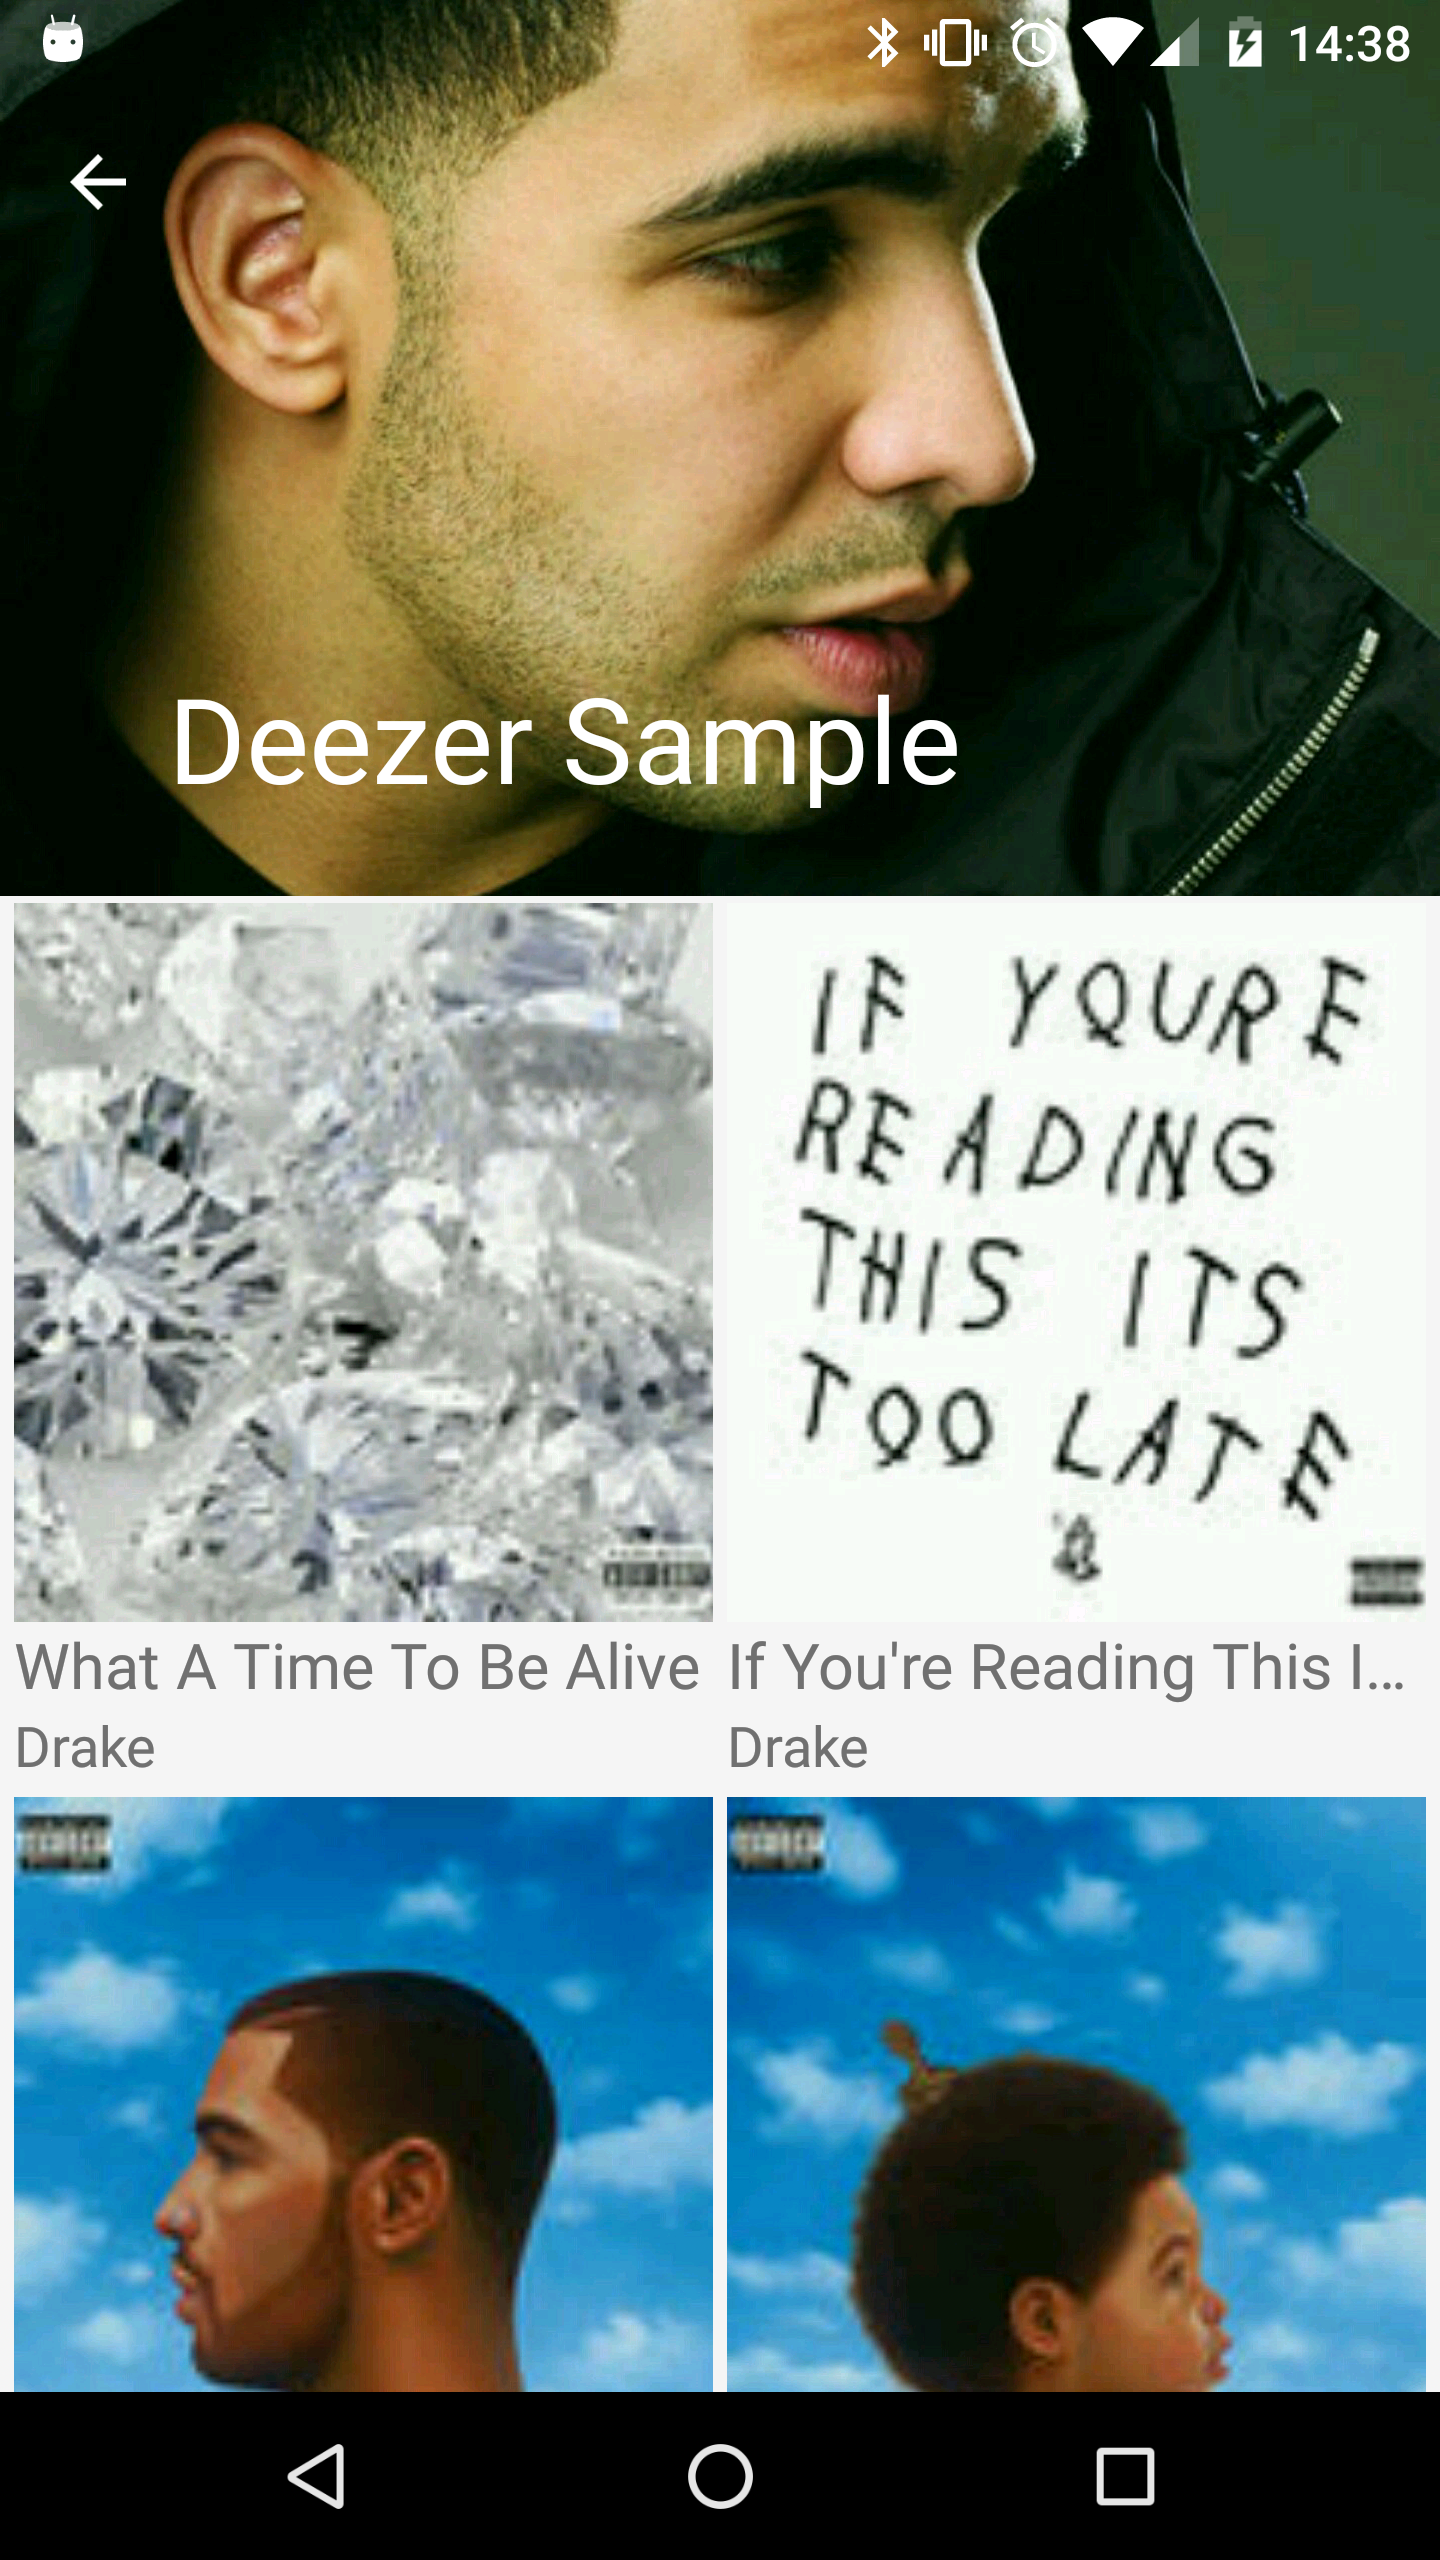
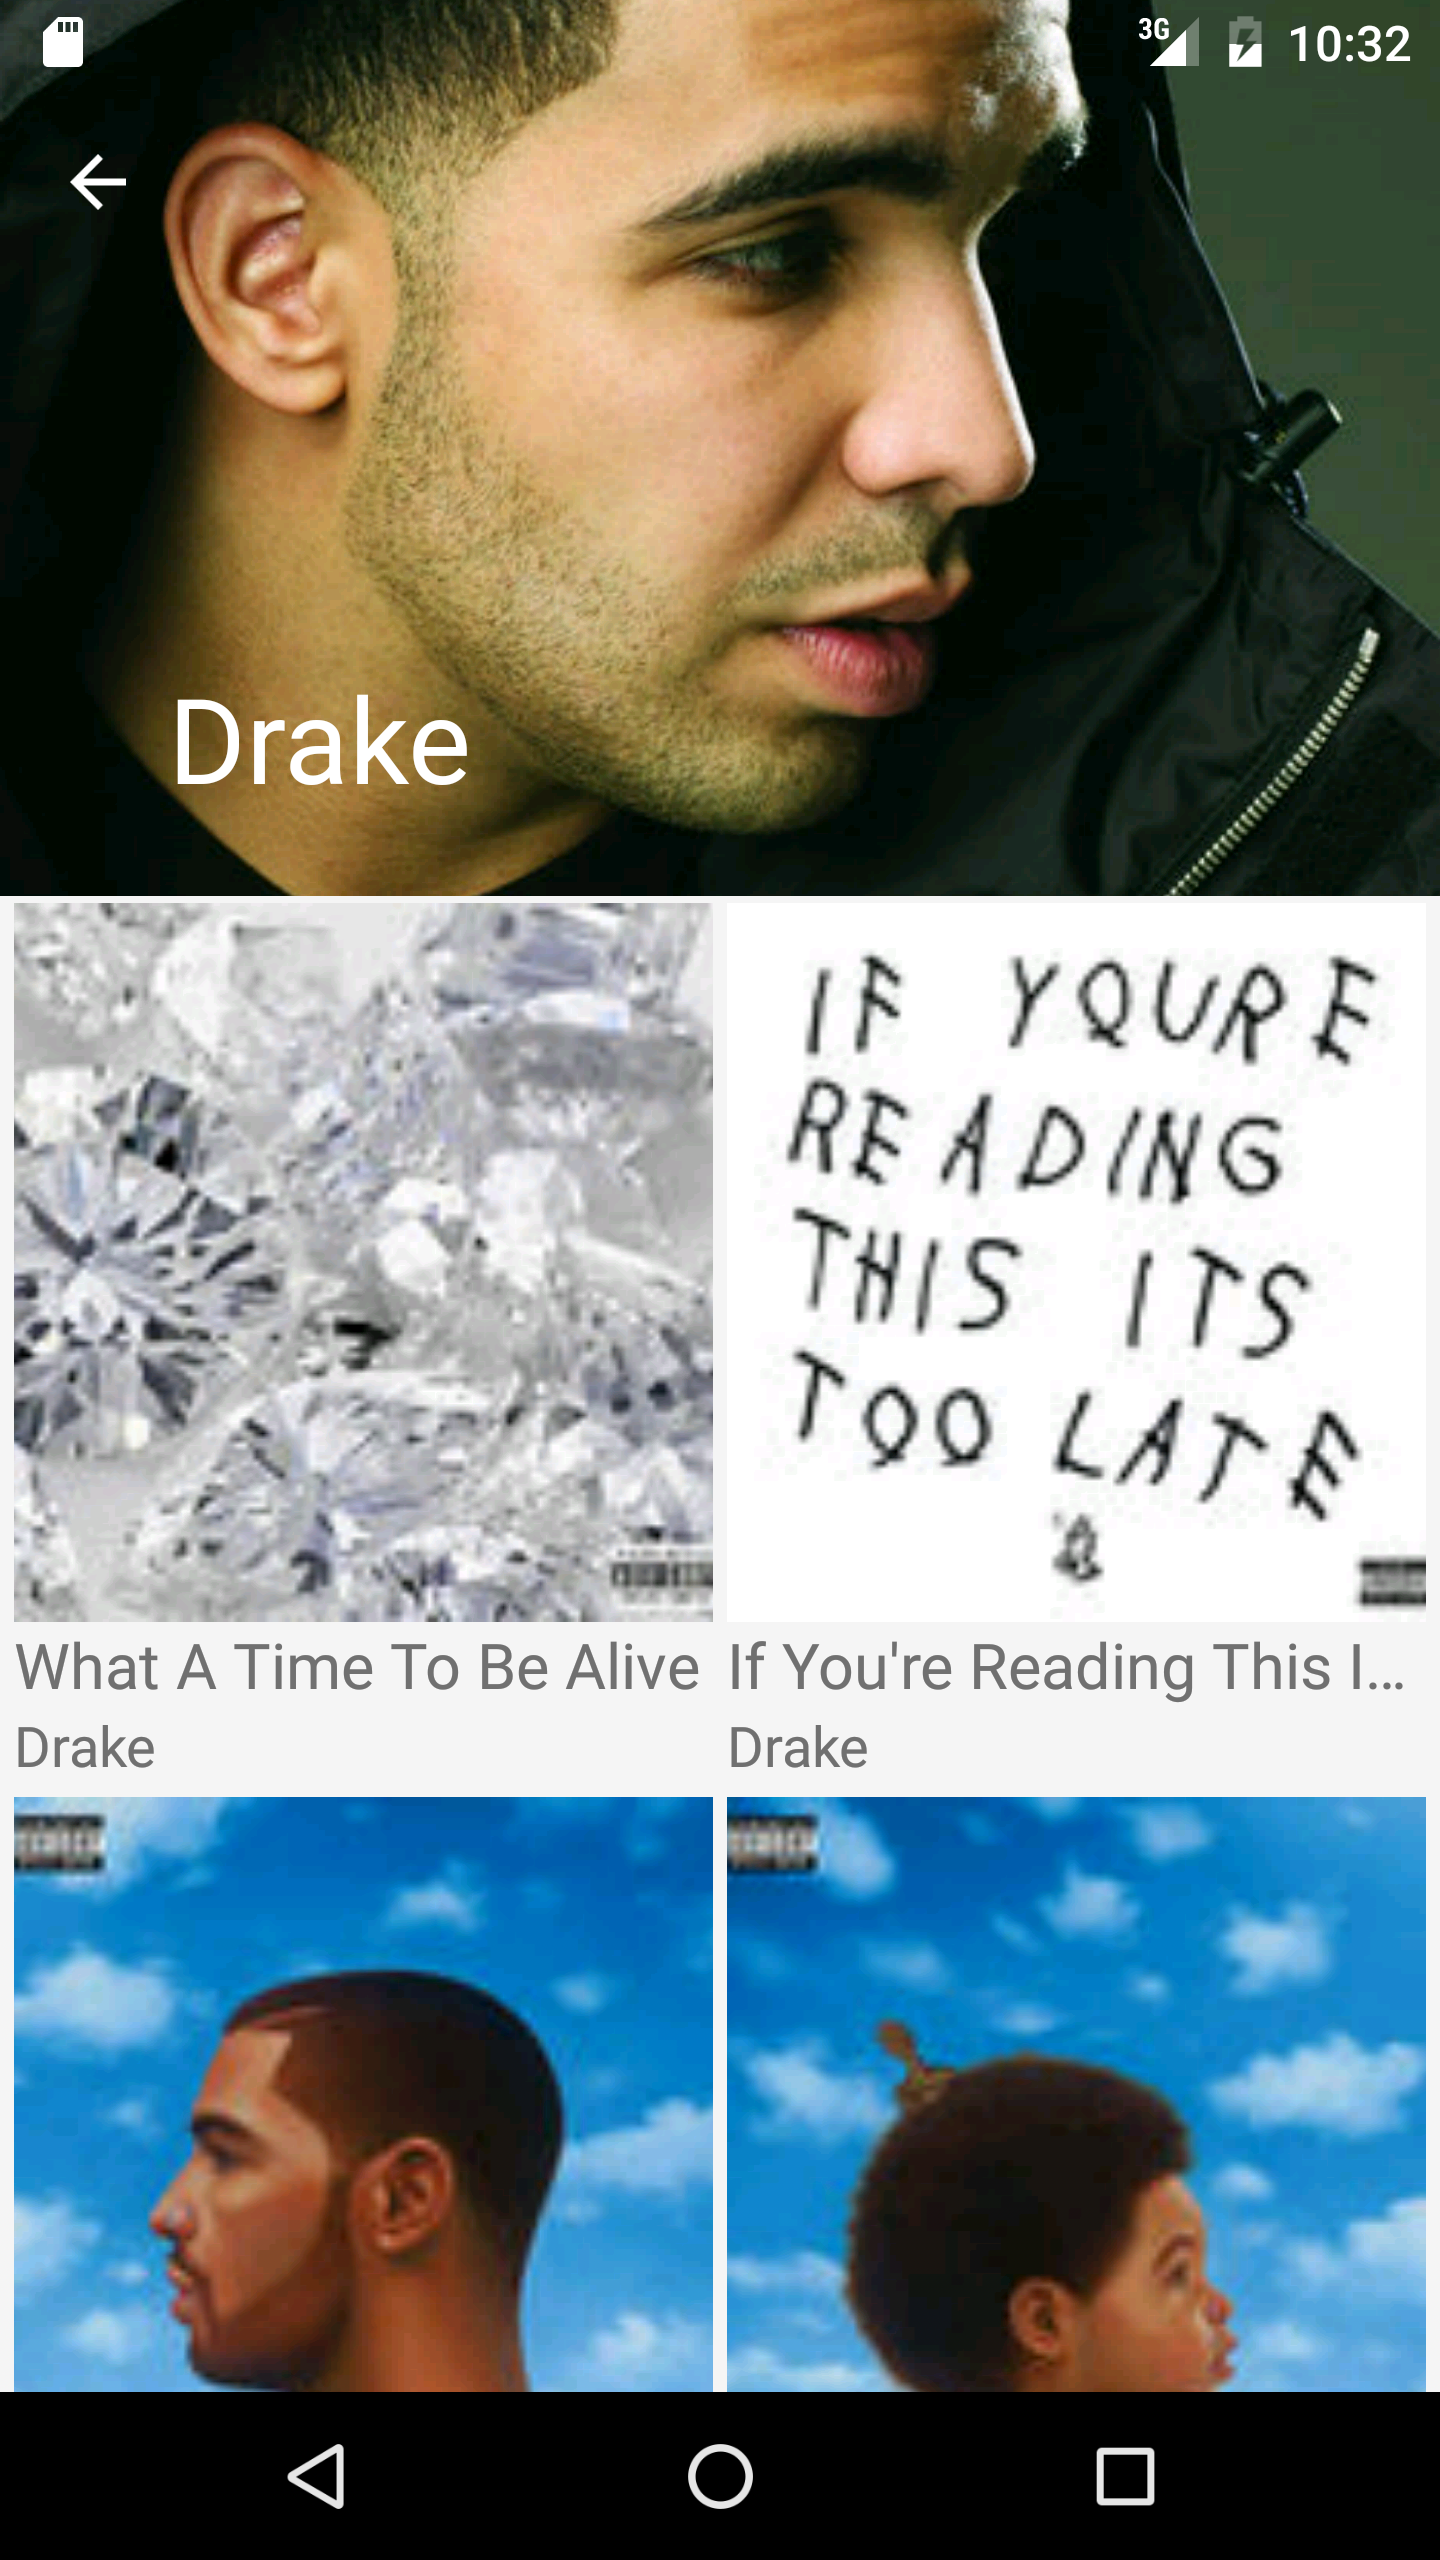
Fixed ActionBar title issue and updated screenshot resource file

diff --git a/app/src/main/java/com/ernestkamara/deezersample/activities/BaseActivity.java b/app/src/main/java/com/ernestkamara/deezersample/activities/BaseActivity.java
@@ -28,6 +28,11 @@ public abstract class BaseActivity extends AppCompatActivity implements AdapterD
         setSupportActionBar(toolbar);
 
         getSupportActionBar().setDisplayHomeAsUpEnabled(showHomeAsUp());
+    }
+
+    @Override
+    protected void onResume() {
+        super.onResume();
         getSupportActionBar().setTitle(getTitle());
     }
 
